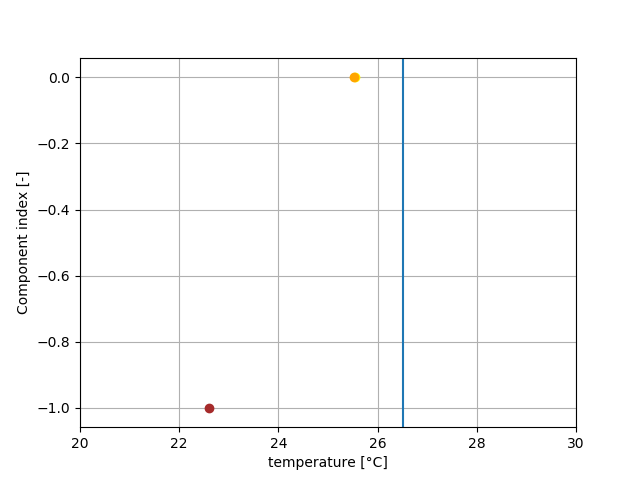
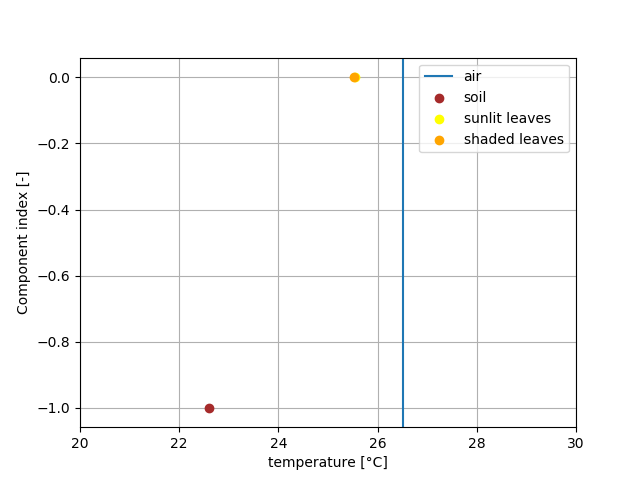
figure style mods

Changed region(s): [[0.6562, 0.125, 0.9062, 0.3125]]

diff --git a/examples/bigleaf_sunlit_shaded_at_one_hour/sim.py b/examples/bigleaf_sunlit_shaded_at_one_hour/sim.py
@@ -20,11 +20,12 @@ def plot_temperature_profile(canopy_object: Canopy, fig_path: Path):
     ax.scatter(soil_component_temperature, soil_component_key,
                marker='o', c='brown', edgecolors=None, label='soil', zorder=3)
     ax.scatter(sunlit_component_temperature, leaf_layer_key,
-               marker='o', c='yellow', edgecolors=None, label='sunlit', zorder=3)
+               marker='o', c='yellow', edgecolors=None, label='sunlit leaves', zorder=3)
     ax.scatter(shaded_component_temperature, leaf_layer_key,
-               marker='o', c='orange', edgecolors=None, label='shaded', zorder=3)
+               marker='o', c='orange', edgecolors=None, label='shaded leaves', zorder=3)
     ax.axvline(convert_kelvin_to_celsius(canopy_object.inputs.air_temperature), label='air')
     ax.set(xlabel='temperature [°C]', ylabel='Component index [-]', xlim=(20, 30))
+    ax.legend()
     fig.savefig(fig_path)
     pyplot.close()
 
